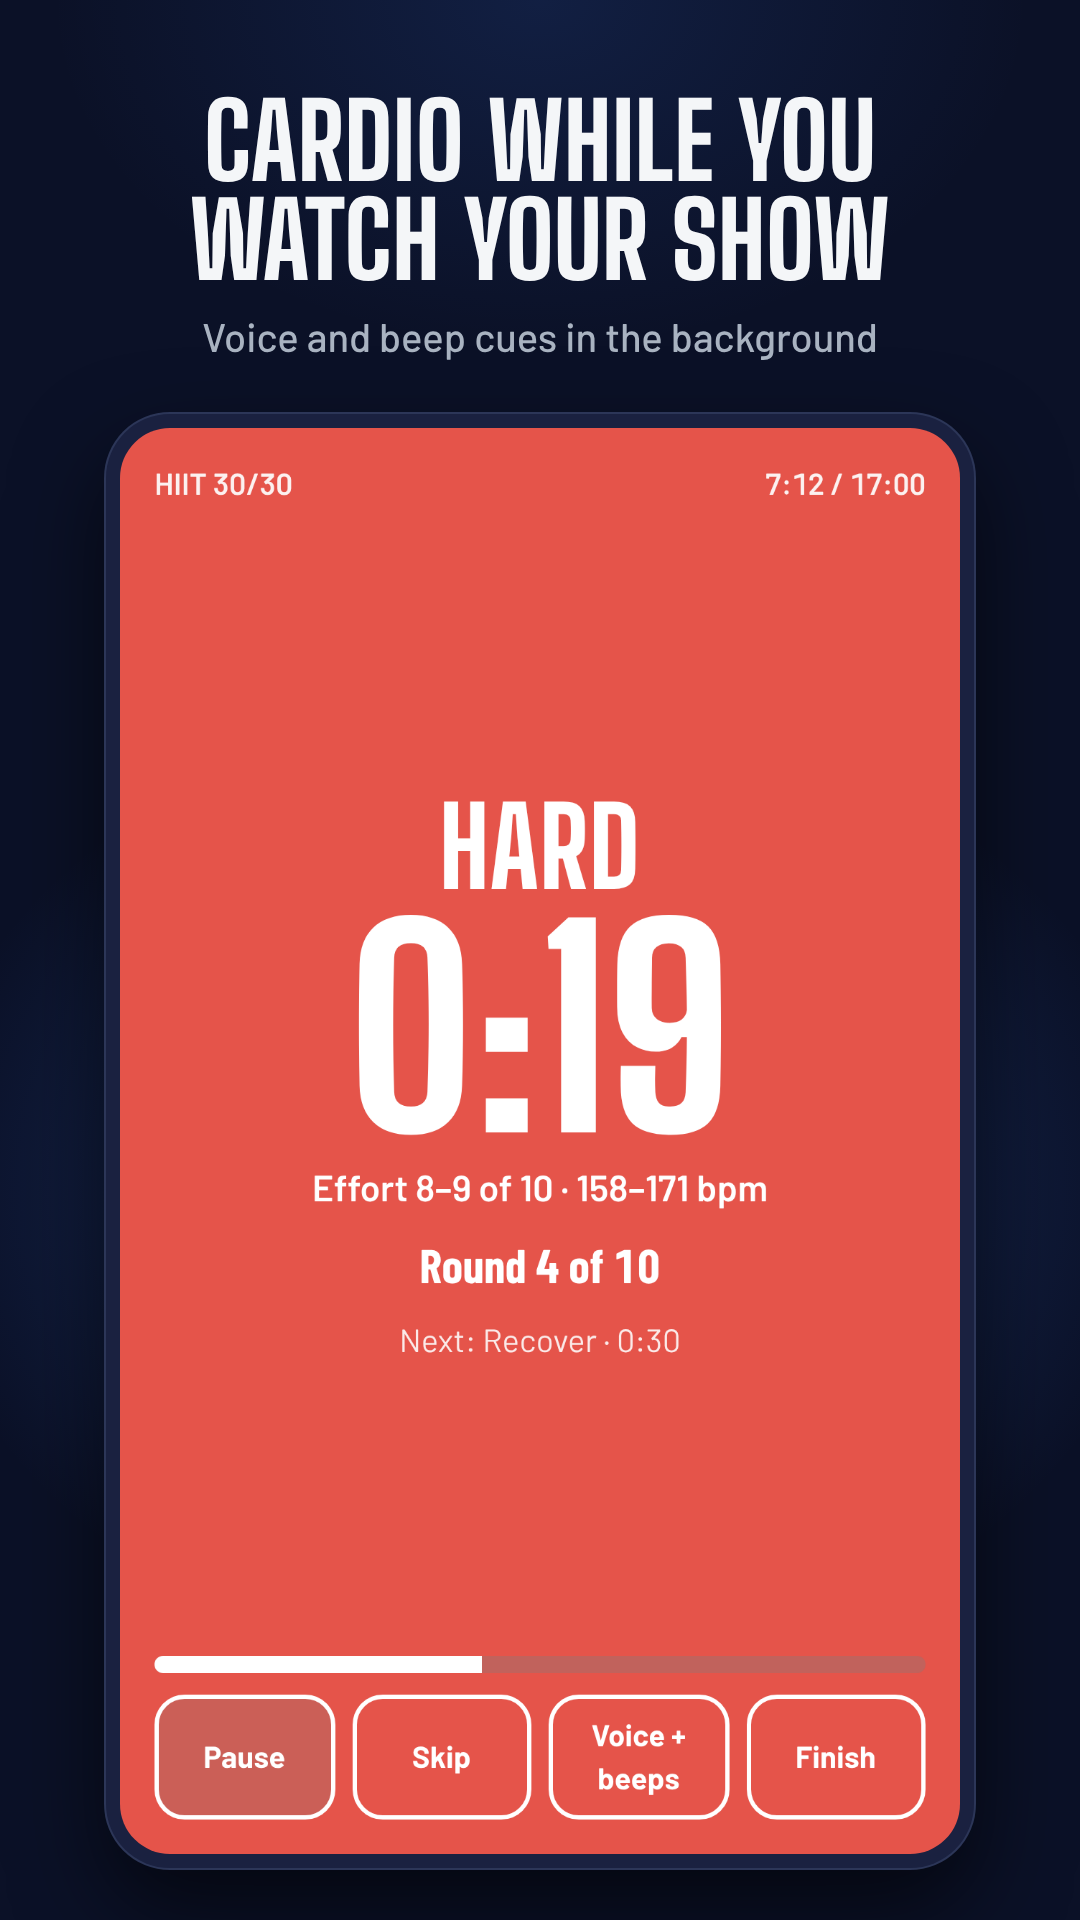
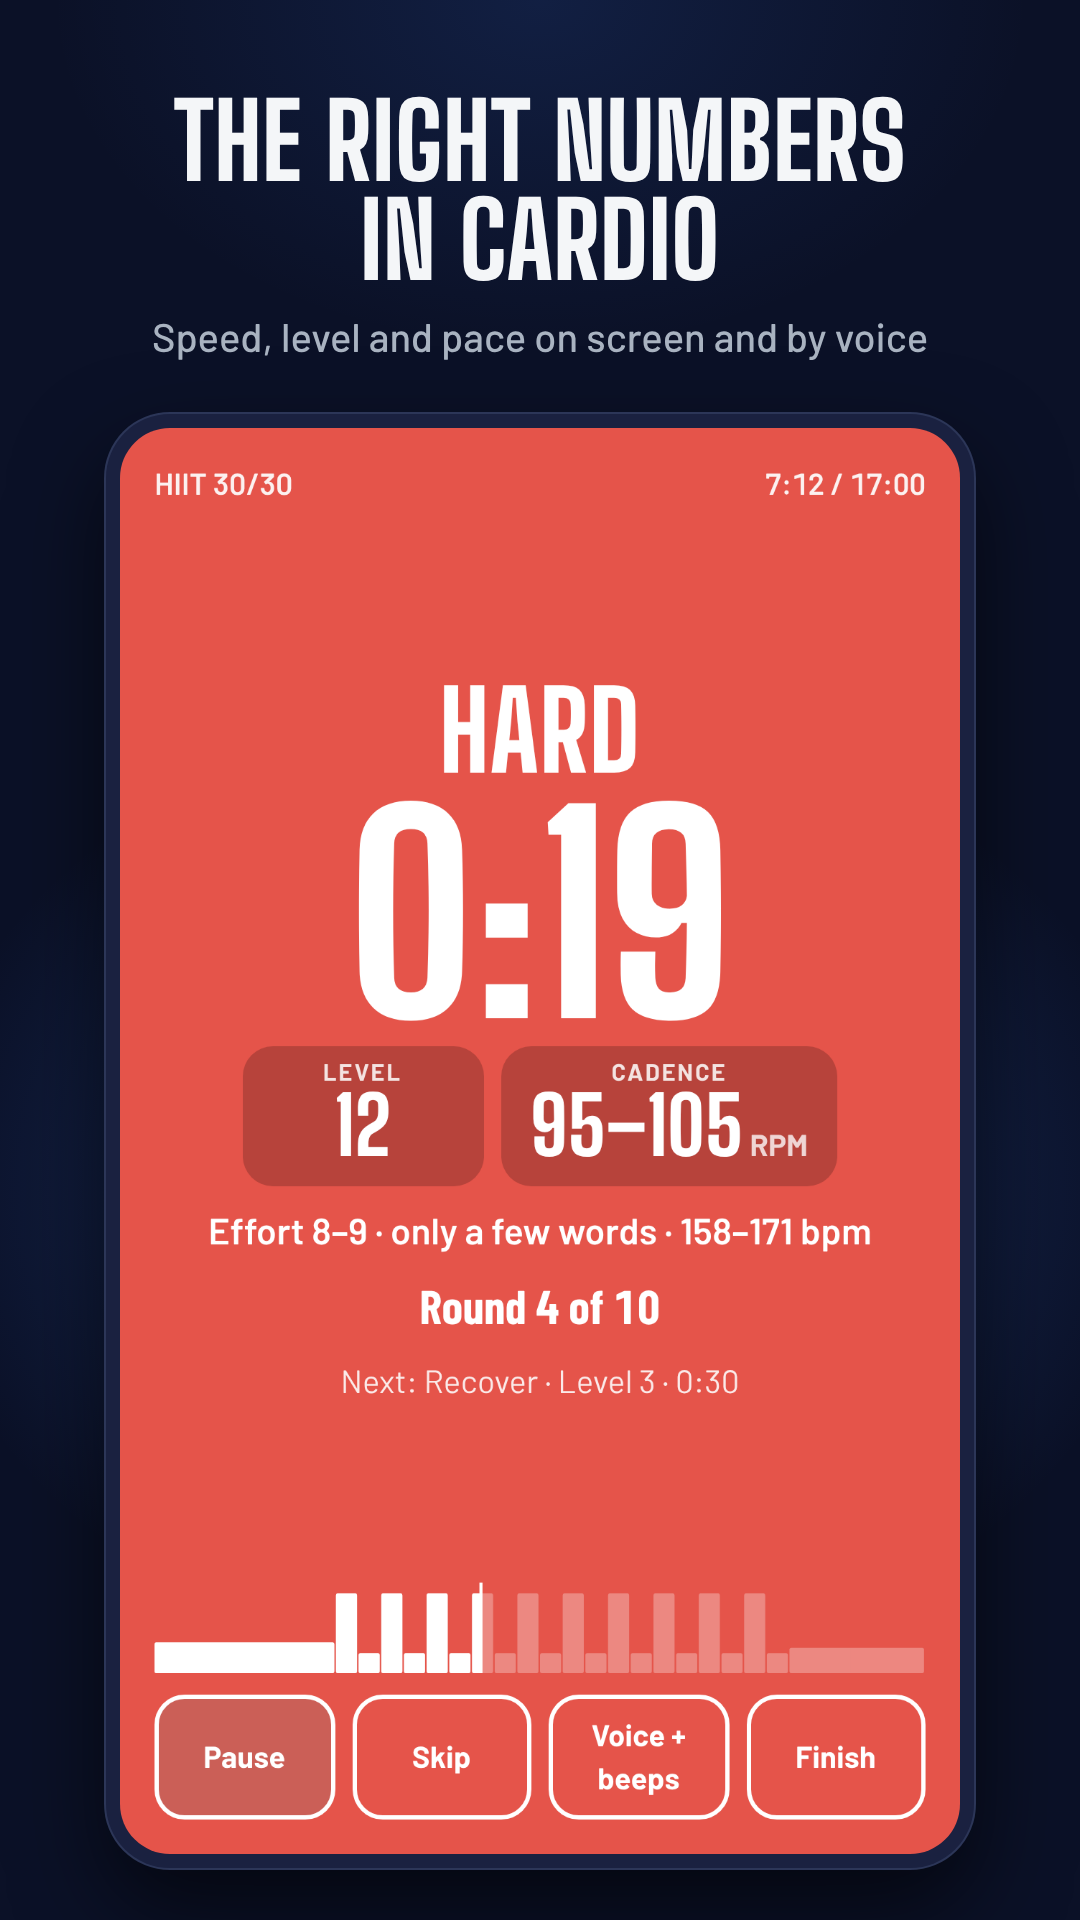
Store page: cardio with the right numbers, the voice calls the next set
The cardio screenshot now shows the machine numbers (level and cadence on
the bike) under "O número certo no cardio", and the listing text in the
three languages mentions the machine numbers and the spoken next set.

Claude-Session: https://claude.ai/code/session_01AAuxqeKVpcW3LoJWaTvSQ7

Changed region(s): [[0.1833, 0.3438, 0.7944, 0.7188], [0.1528, 0.0312, 0.8556, 0.1875], [0.1222, 0.8125, 0.8556, 0.875]]

diff --git a/store/google-play/ficha-da-loja.md b/store/google-play/ficha-da-loja.md
@@ -39,8 +39,11 @@ O PESO CERTO EM CADA SÉRIE
 • A primeira série é um teste, e o app calcula as próximas
 • Mostra as anilhas de cada lado, o halter ou o pino da máquina
 • Aquecimento, descanso com aviso e recordes pessoais
+• No fim do descanso, a voz fala a próxima série: repetições e peso
 
-CARDIO ENQUANTO VOCÊ ASSISTE
+CARDIO COM O NÚMERO CERTO
+• Em cada parte, o app diz o que colocar no aparelho: velocidade e inclinação da esteira, nível da bike, ritmo do remo
+• Os números se ajustam a você, como a carga na musculação
 • HIIT, Tabata, 4×4 norueguês, zona 2 e mais, com avisos por voz e bipe
 • Funciona em segundo plano, com o celular na sua série ou na sua música
 
@@ -81,8 +84,11 @@ THE RIGHT WEIGHT EVERY SET
 • Set 1 is a test, and the app works out the next ones
 • Shows the plates on each side, the dumbbell or the machine pin
 • Warm-ups, rest alerts and personal records
+• When the rest ends, the voice calls your next set: reps and weight
 
-CARDIO WHILE YOU WATCH
+CARDIO WITH THE RIGHT NUMBERS
+• Each part tells you what to set on the machine: treadmill speed and incline, bike level, rower pace
+• The numbers adapt to you, like the weight in strength training
 • HIIT, Tabata, Norwegian 4×4, zone 2 and more, with voice and beep cues
 • Runs in the background while your phone plays your show or your music
 
@@ -123,8 +129,11 @@ EL PESO JUSTO EN CADA SERIE
 • La primera serie es una prueba, y la app calcula las siguientes
 • Muestra los discos de cada lado, la mancuerna o el pasador de la máquina
 • Calentamiento, aviso de descanso y récords personales
+• Al terminar el descanso, la voz te dice la siguiente serie: repeticiones y peso
 
-CARDIO MIENTRAS VES TU SERIE
+CARDIO CON EL NÚMERO JUSTO
+• En cada parte, la app te dice qué poner en la máquina: velocidad y pendiente de la cinta, nivel de la bici, ritmo del remo
+• Los números se ajustan a ti, como el peso en las pesas
 • HIIT, Tabata, 4×4 noruego, zona 2 y más, con avisos por voz y pitidos
 • Funciona en segundo plano mientras el móvil reproduce tu serie o tu música
 
